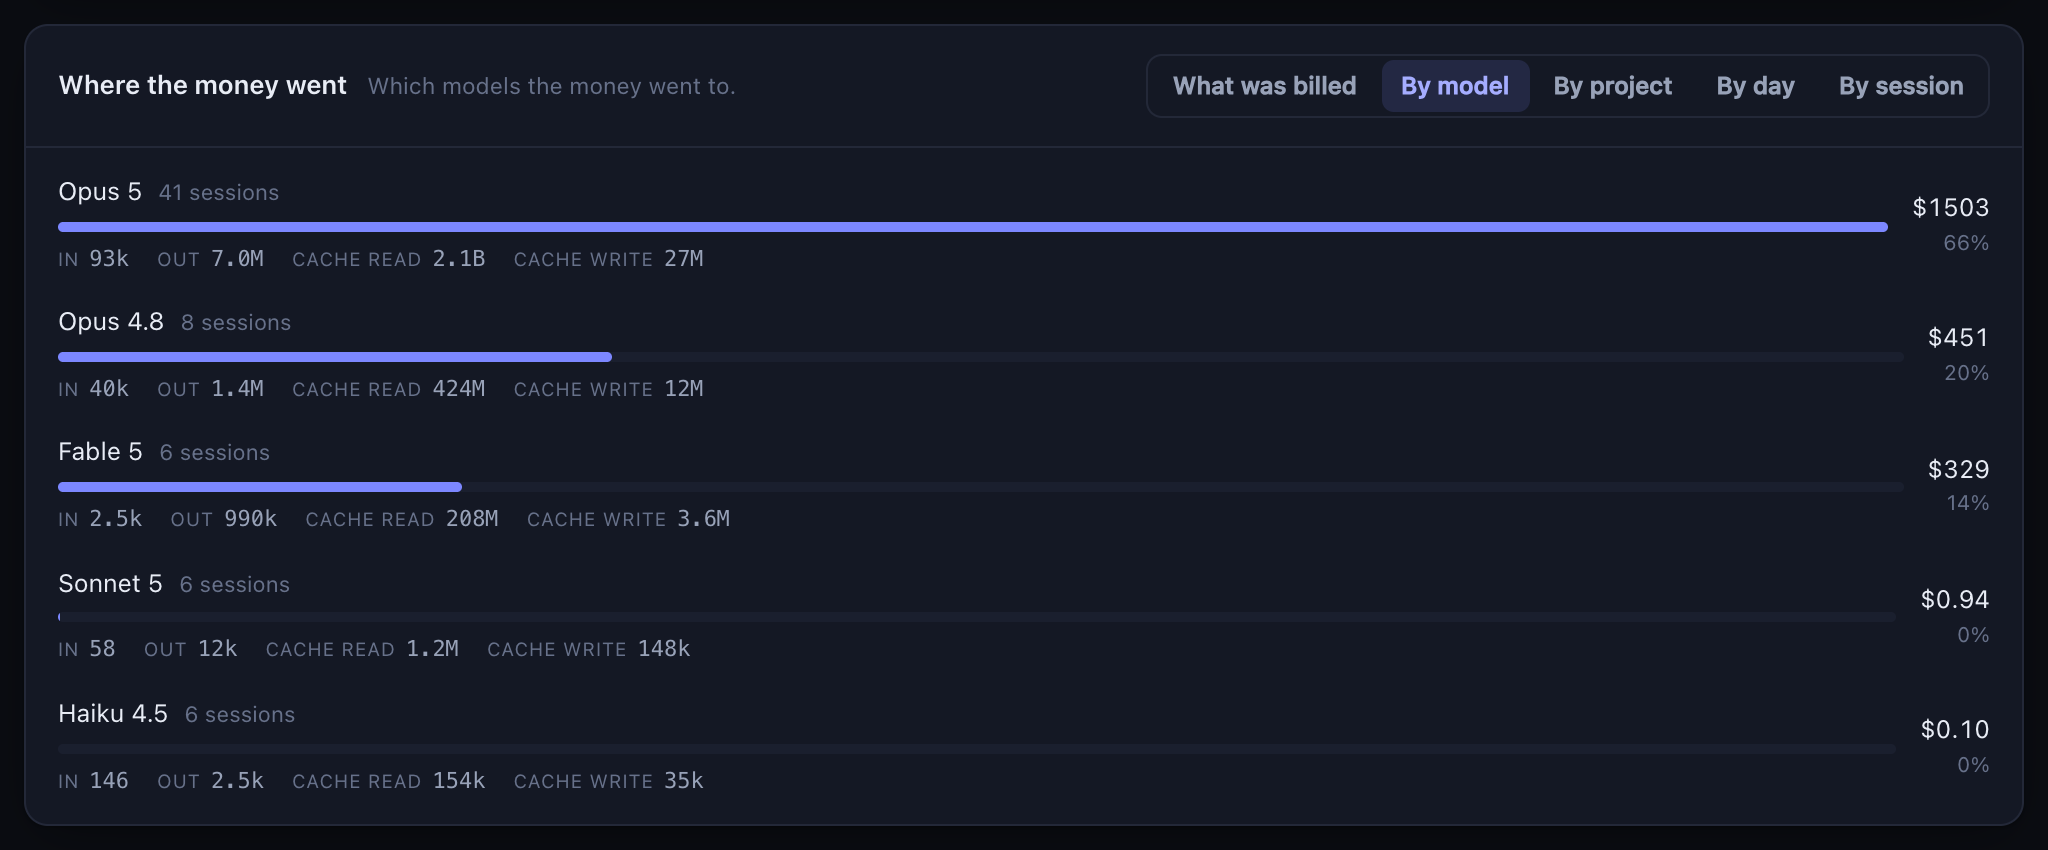
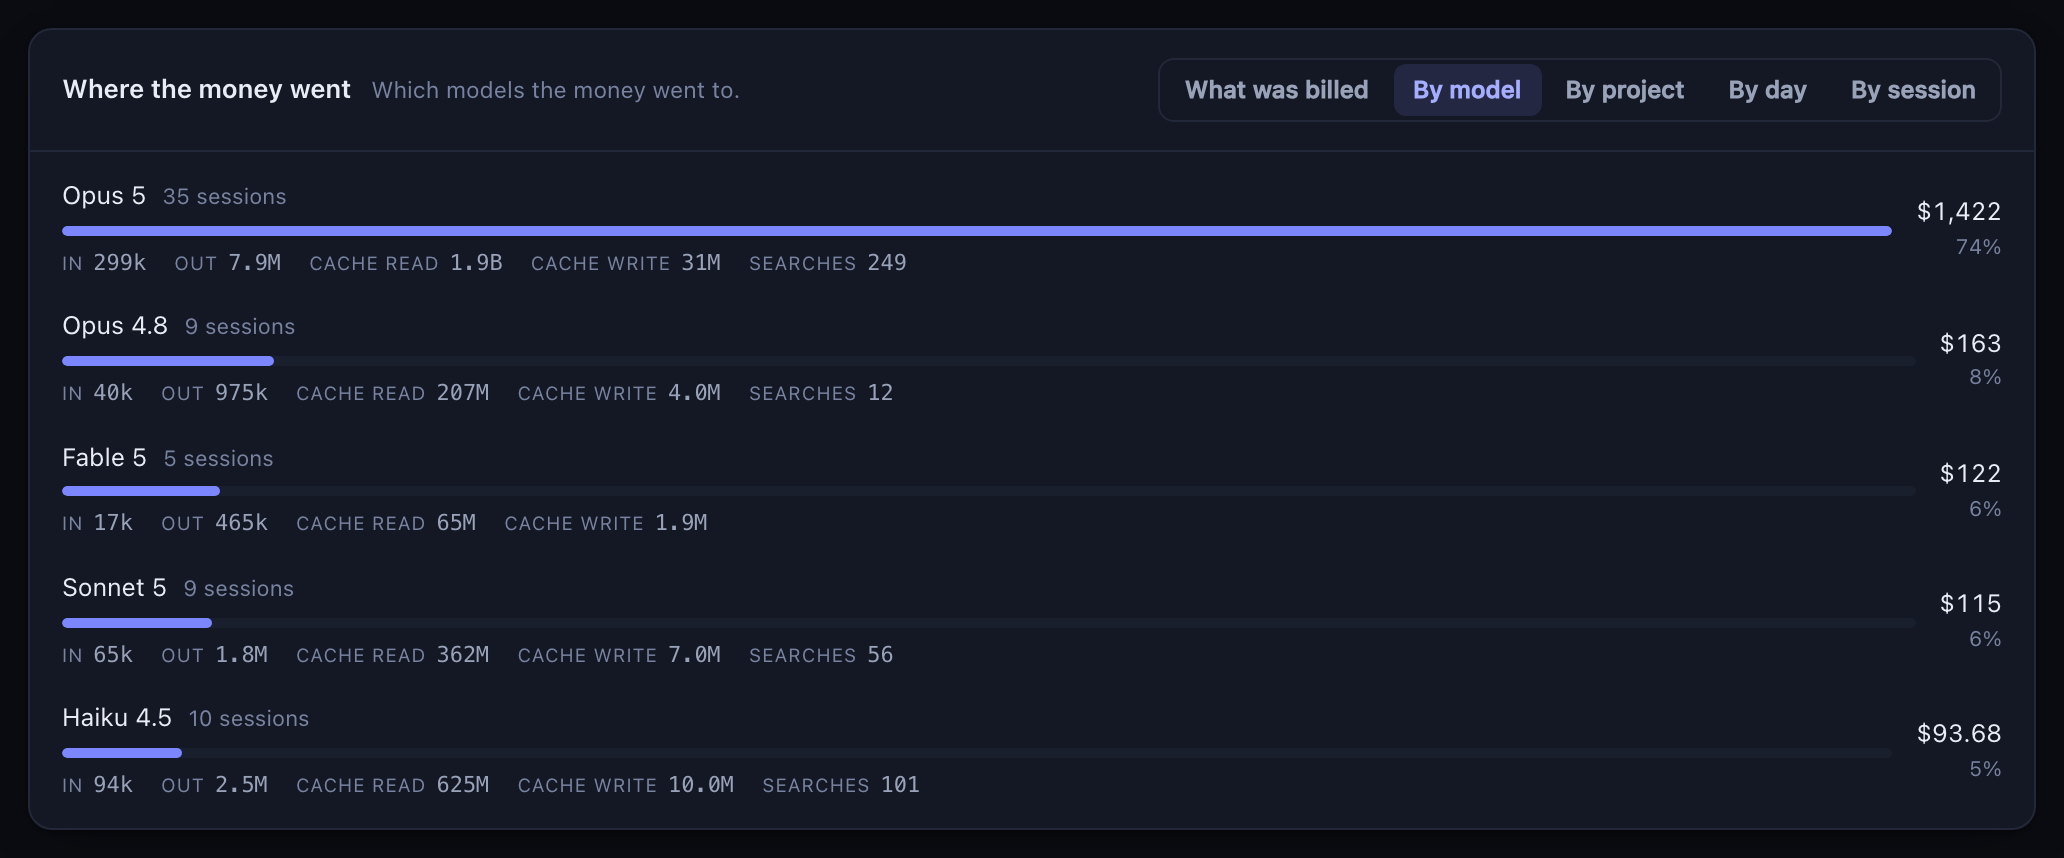
Make it installable, and re-shoot the docs from a sample
Publish preparation. Two things, plus the gate that keeps them honest.

Installable:

- `private` is gone and there is a `bin`, so `npx real-cost-of-agent` is
  the documented way in — one command, no clone, and with no
  dependencies to resolve it is a single ~100kB tarball.
- `--help` and `--version` answer, because an installed binary that
  silently ignores a flag is how somebody ends up believing `--port`
  worked. Everything remains an environment variable; --help says so.
- The port-busy hint names npx or npm depending on how it was started.
- `files` is an allowlist: server, web, README, LICENSE, CHANGELOG.
  No screenshots, no tests, no workflows. 100kB rather than 1.4MB.
- A new CI job packs the tarball, installs it somewhere else and serves
  every asset from there. A file missing from `files` works in every
  clone and 404s for everybody arriving by npx, so a clone can never
  catch it.

Screenshots:

- All six were stale — shot before money was grouped, before the by-day
  chart declared its window, before the bar floors existed.
- They are now taken against a generated ~/.claude: invented projects,
  invented prompts, a usage shape modelled on how Claude Code really
  bills. The by-project and by-session cuts render directory and session
  names straight off disk, so a fixture removes the question rather than
  answering it carefully. The README says where they come from, and the
  absence of a shot of those two cuts is still deliberate.
[…]

diff --git a/server/index.js b/server/index.js
@@ -1,3 +1,4 @@
+#!/usr/bin/env node
 /**
  * Real Cost of Agent — the whole server.
  *
@@ -5,8 +6,12 @@
  * and makes no outbound request of any kind. There is no account, no key, and
  * nothing to sign in to. If it is running, everything it knows came off your own
  * disk.
+ *
+ * This file is also the published binary, hence the shebang: `npx
+ * real-cost-of-agent` runs exactly what `node server/index.js` runs.
  */
 
+import fs from 'node:fs';
 import http from 'node:http';
 import fsp from 'node:fs/promises';
 import path from 'node:path';
@@ -17,12 +22,73 @@ import { CLAUDE_DIR, claudeCodeFound } from './scan.js';
 import { spendBreakdown } from './spend.js';
 import { compareBilling, detectAuth, PLANS, readConfig, writeConfig } from './billing.js';
 
+const HERE = path.dirname(fileURLToPath(import.meta.url));
+const WEB_DIR = path.join(HERE, '..', 'web');
+
+/**
+ * Read rather than imported.
+ *
+ * `import ... with { type: 'json' }` would be tidier and is not available on
+ * every runtime this claims to support — `engines` says Node 20.11, and import
+ * attributes are not a safe assumption that far back. This is one file read at
+ * startup.
+ */
+function version() {
+  try {
+    return JSON.parse(fs.readFileSync(path.join(HERE, '..', 'package.json'), 'utf8')).version;
+  } catch {
+    return 'unknown';
+  }
+}
+
+/**
+ * What `--help` prints.
+ *
+ * Every setting is an environment variable, because that is what this had
+ * before it was installable and changing it would break anybody's notes. The
+ * flags are the two a published binary is expected to answer.
+ */
+const USAGE = `real-cost-of-agent — what your agent would have cost
+
+  npx real-cost-of-agent          run it, then open the URL it prints
+  node server/index.js            the same thing, from a clone
+
+Options
+  -h, --help                      show this and exit
+  -v, --version                   print the version and exit
+
+Environment
+  PORT=4400                       listen on another port (default 4319)
+  HOST=127.0.0.1                  bind address; loopback by default
+  CLAUDE_HOME=/path/to/.claude    read transcripts from somewhere else
+  XDG_CONFIG_HOME=~/.config       where this app stores your plan
+
+It reads ~/.claude, writes one preference file, and makes no network
+request of any kind. Nothing leaves this machine.
+`;
+
+const argv = process.argv.slice(2);
+if (argv.includes('-h') || argv.includes('--help')) {
+  process.stdout.write(USAGE);
+  process.exit(0);
+}
+if (argv.includes('-v') || argv.includes('--version')) {
+  process.stdout.write(`${version()}\n`);
+  process.exit(0);
+}
+// Silently ignoring a flag is how somebody ends up believing `--port 4400`
+// worked. Everything here is an environment variable; say so.
+const unknown = argv.filter((a) => a.startsWith('-'));
+if (unknown.length) {
+  process.stderr.write(`real-cost-of-agent: unknown option ${unknown[0]}\n\n${USAGE}`);
+  process.exit(1);
+}
+
 // 4317 and 4318 are OpenTelemetry's default collector ports and are commonly
 // taken on a machine that runs agents; 4319 is the next one up that is not
 // claimed by anything standard.
 const PORT = Number(process.env.PORT) || 4319;
 const HOST = process.env.HOST || '127.0.0.1';
-const WEB_DIR = path.join(path.dirname(fileURLToPath(import.meta.url)), '..', 'web');
 
 const MIME = {
   '.html': 'text/html; charset=utf-8',
@@ -238,7 +304,10 @@ server.listen(PORT, HOST, () => {
 // dumping a stack for: it is almost always a second copy of this app.
 server.on('error', (err) => {
   if (err.code === 'EADDRINUSE') {
-    console.error(`[real-cost] port ${PORT} is busy. Try: PORT=4400 npm start`);
+    // Named the way it was actually started, so the suggestion is copy-pasteable
+    // whether that was npx or a clone.
+    const how = process.argv[1]?.includes('node_modules') ? 'npx real-cost-of-agent' : 'npm start';
+    console.error(`[real-cost] port ${PORT} is busy. Try: PORT=4400 ${how}`);
     process.exit(1);
   }
   throw err;

diff --git a/README.md b/README.md
@@ -18,21 +18,33 @@ API rates, and tells you what your subscription actually bought.
 
 ---
 
-> **68 sessions. 10,444 API calls. 2.7B cached tokens. $2,284 at API list rates — against $640 of plan.**
+> **68 sessions. 10,923 API calls. 3.1B cached tokens. $1,915 at API list rates — against $640 of plan.**
 >
-> That is one laptop, read in under a second. Every figure came off its own disk, and nothing was
-> sent anywhere to produce it.
+> Two months of agent work, priced in under a second from transcripts that were already on the
+> disk. Nothing was sent anywhere to produce it.
 
 ![The plan-versus-list-rates panel](docs/screenshots/plan-vs-list-rates.png)
+
+<sub>Every screenshot on this page is shot against a **generated sample**, not a real machine. The
+by-project and by-session cuts render directory and session names straight off your disk, so no
+screenshot here is taken from anybody's real work — which is also why you will not find a shot of
+those two cuts below.</sub>
+
+```bash
+npx real-cost-of-agent
+```
+
+Then open **http://127.0.0.1:4319**. That is the whole setup. No account, no API key, no build step,
+and nothing to install — the package has zero dependencies, so `npx` fetches one 100kB tarball and
+runs it.
+
+Or from a clone, which is the same file doing the same thing:
 
 ```bash
 git clone https://github.com/berenyibence/real-cost-of-agent.git
 cd real-cost-of-agent
 node server/index.js
 ```
-
-Then open **http://127.0.0.1:4319**. That is the whole setup — there is no `npm install`, because
-there is nothing to install. No account, no API key, no build step, no dependencies.
 
 ---
 
@@ -125,8 +137,9 @@ Filter by session or project, sort by cost, recency, output, tokens or requests.
 is on screen and what it is out of, in both rows and dollars.
 
 **Every row carries its token split, so a bill can be argued with.** A model row that shows one dollar
-figure invites exactly one question and cannot answer it. These can: 2.1B cache reads is a very
-different story from 7M output tokens, and they are the reason one model took two thirds of the bill.
+figure invites exactly one question and cannot answer it. These can: 1.9B cache reads is a very
+different story from 7.9M output tokens, and together they are why one model took three quarters of
+the bill.
 
 ![By model, with the token split on every row](docs/screenshots/by-model.png)
 
@@ -191,7 +204,8 @@ X, LinkedIn and Facebook, or 1080×1350 and 1080×1080 for Instagram and Threads
 
 ## Requirements
 
-- **Node 20.11 or newer.** Nothing else.
+- **Node 20.11 or newer.** Nothing else — the package declares no dependencies, and CI fails if one
+  is ever added.
 - **Claude Code, run at least once**, so there are transcripts to read. If there are none, the page
   says so and names the directory it looked in.
 
@@ -225,11 +239,14 @@ open the network tab and there is nothing in it. CI asserts the header on every 
 
 ## Configuration
 
-Every setting is an environment variable, and every one has a working default:
+Every setting is an environment variable, and every one has a working default. The two flags are the
+ones any installed binary should answer:
 
 ```bash
-PORT=4400 node server/index.js          # default 4319
-HOST=127.0.0.1 node server/index.js     # loopback; change at your own risk
+npx real-cost-of-agent --help           # the list below, without leaving the terminal
+npx real-cost-of-agent --version
+PORT=4400 npx real-cost-of-agent        # default 4319
+HOST=127.0.0.1 npx real-cost-of-agent   # loopback; change at your own risk
 CLAUDE_HOME=/path/to/.claude npm start  # read someone else's export, or a backup
 XDG_CONFIG_HOME=~/.config npm start     # where this app stores your plan
 ```

diff --git a/CHANGELOG.md b/CHANGELOG.md
@@ -2,7 +2,9 @@
 
 Notable changes, newest first. Dates are the day the change landed on `main`.
 
-## Unreleased
+## 0.6.0 — 2026-08-19
+
+The first public release. Everything below landed between the last tagged version and going public.
 
 ### Fixed
 
@@ -200,6 +202,21 @@ Notable changes, newest first. Dates are the day the change landed on `main`.
   was going onto the component labels too, which are written in this repo and always fit.
 
 ### Added
+
+- **`npx real-cost-of-agent`.** The package is published now, with a `bin`, so the documented way in
+  is one command that needs no clone and no install — zero dependencies means `npx` fetches a single
+  ~100kB tarball. `--help` and `--version` answer the way an installed binary should, and the
+  port-busy hint names whichever way you started it. `files` is an allowlist, so the tarball is the
+  app and nothing else: no screenshots, no tests, no workflows. CI packs it, installs it elsewhere
+  and serves every asset from there, because a file missing from that allowlist is invisible in a
+  clone and broken for everybody arriving by `npx`.
+
+- **The screenshots are shot against a generated sample.** They were stale — taken before money was
+  grouped, before the by-day chart declared its window, before the bar floors existed — and they
+  came off a real machine. The by-project and by-session cuts render directory and session names
+  straight off disk, so a fixture removes the question entirely: every figure in `docs/` now comes
+  from invented projects and invented prompts, and the README says so. The absence of a by-project
+  or by-session shot is still a decision rather than a gap.
 
 - **A Content-Security-Policy, so "no network calls" is enforced rather than promised.** Invariant 8
   has always been true of the source and has always been checkable only by reading it. It is now a

diff --git a/CONTRIBUTING.md b/CONTRIBUTING.md
@@ -103,6 +103,10 @@ The layering is worth preserving.
 | `web/share.js`      | the aggregate allowlist, the post text, the canvas card              |
 | `web/theme.js`      | light or dark before first paint. A file, not an inline block — the CSP forbids one |
 
+Adding a file under `server/` or `web/` means checking `files` in `package.json`: it is an allowlist,
+so anything it does not cover works in your clone and is missing from `npx real-cost-of-agent`. CI's
+`package` job installs the tarball elsewhere and serves the page from there, which is what catches it.
+
 `scan.js` is the only module that parses vendor JSON, and `models.js` / `spend.js` are pure
 arithmetic over normalized numbers. **Adding a second agent's transcripts should mean writing one new
 scanner, not touching the pricing.** If you are here to add support for another tool, that is the

diff --git a/CLAUDE.md b/CLAUDE.md
@@ -209,6 +209,11 @@ point of the project.
 
 ## Style
 
+- **`files` in `package.json` is an allowlist, and it is the publish surface.** Anything new under
+  `web/` or `server/` that it does not cover is missing from the tarball and present in every clone,
+  so the failure is invisible to whoever added it and total for anybody arriving by `npx`. The
+  `package` job in CI installs the tarball somewhere else and serves every asset from there; keep it
+  in step when the file layout changes. `docs/`, `test/` and the workflows deliberately stay out.
 - **Refer to an invariant by its words, not its number.** The list gets inserted into, and a
   reference in another file does not move when it does — twice now a renumber has left `server/` and
   CI pointing at the wrong rule. "The *no network calls, ever* invariant" survives; "invariant 9"
